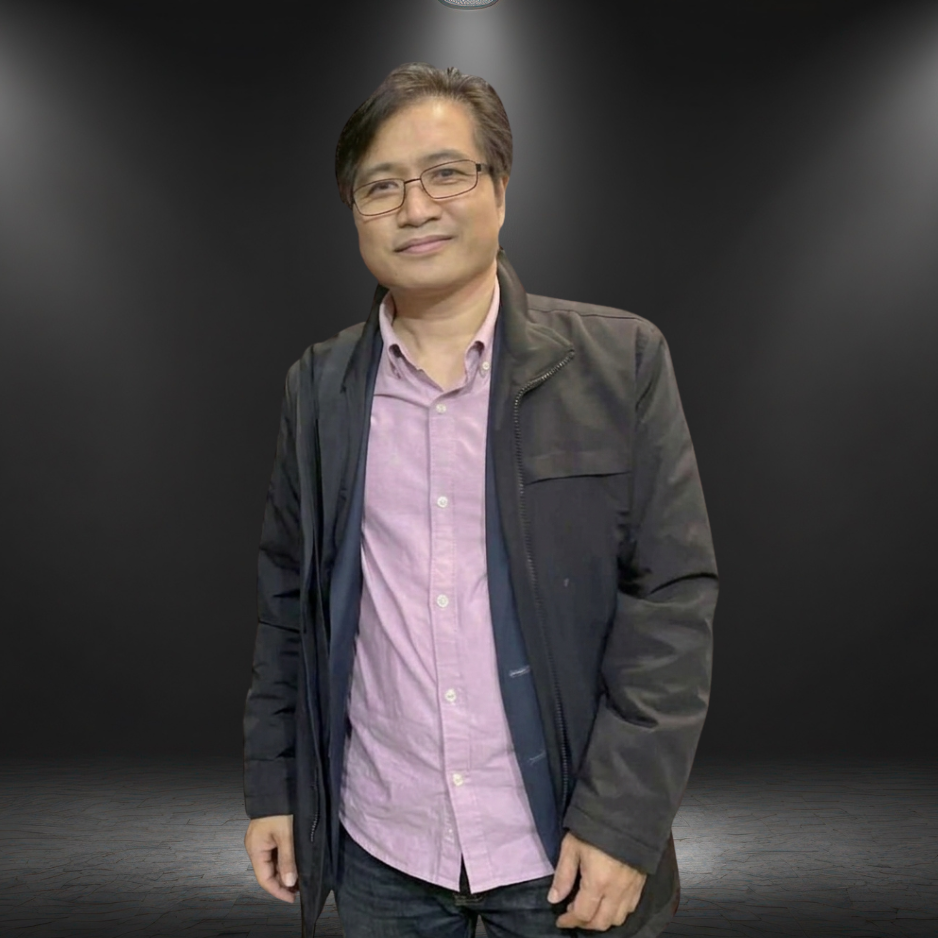
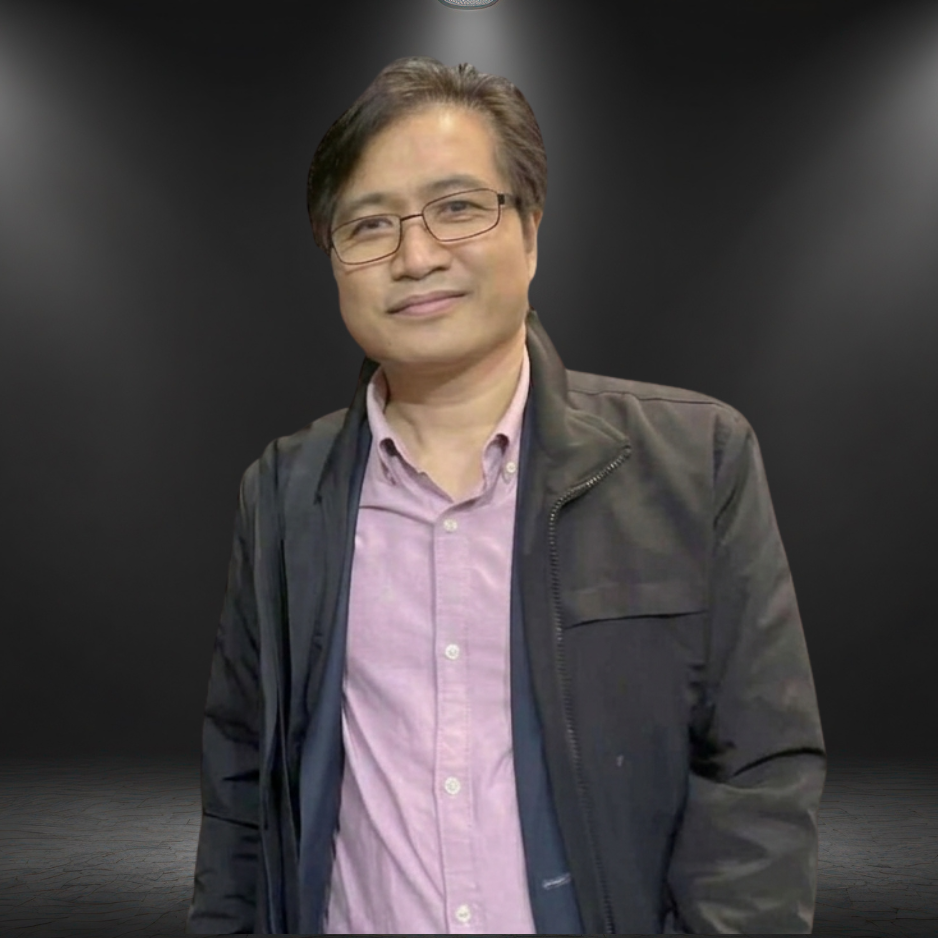
update pic

Changed region(s): [[0.1855, 0.0618, 0.8966, 1.0]]

diff --git a/nuptials.html b/nuptials.html
@@ -273,7 +273,7 @@
                             <span class="role-badge">Bridesmaid-Veil</span>
                         </div>
                         <div class="person-card">
-                            <img src="pictures/leah.jpg" alt="Bridesmaid">
+                            <img src="pictures/leah.png" alt="Bridesmaid">
                             <h4>Ms. Leah Reyes</h4>
                             <span class="role-badge">Bridesmaid-Candle</span>
                         </div>